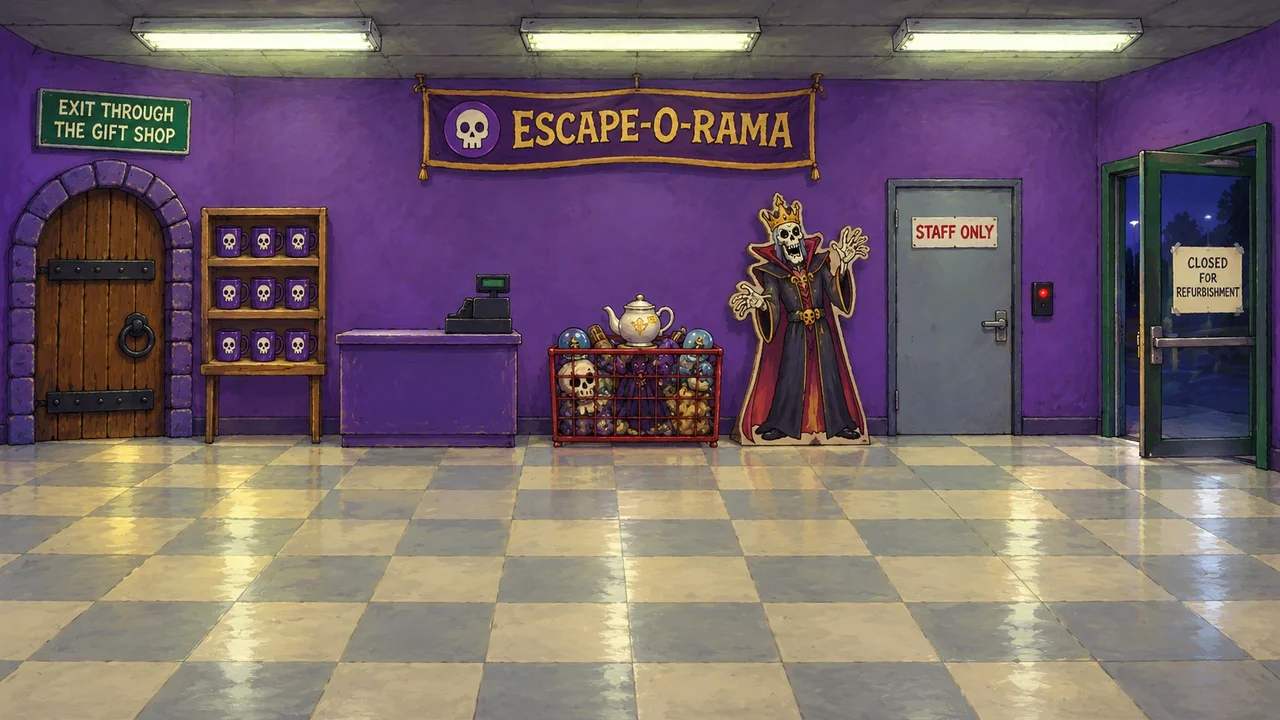
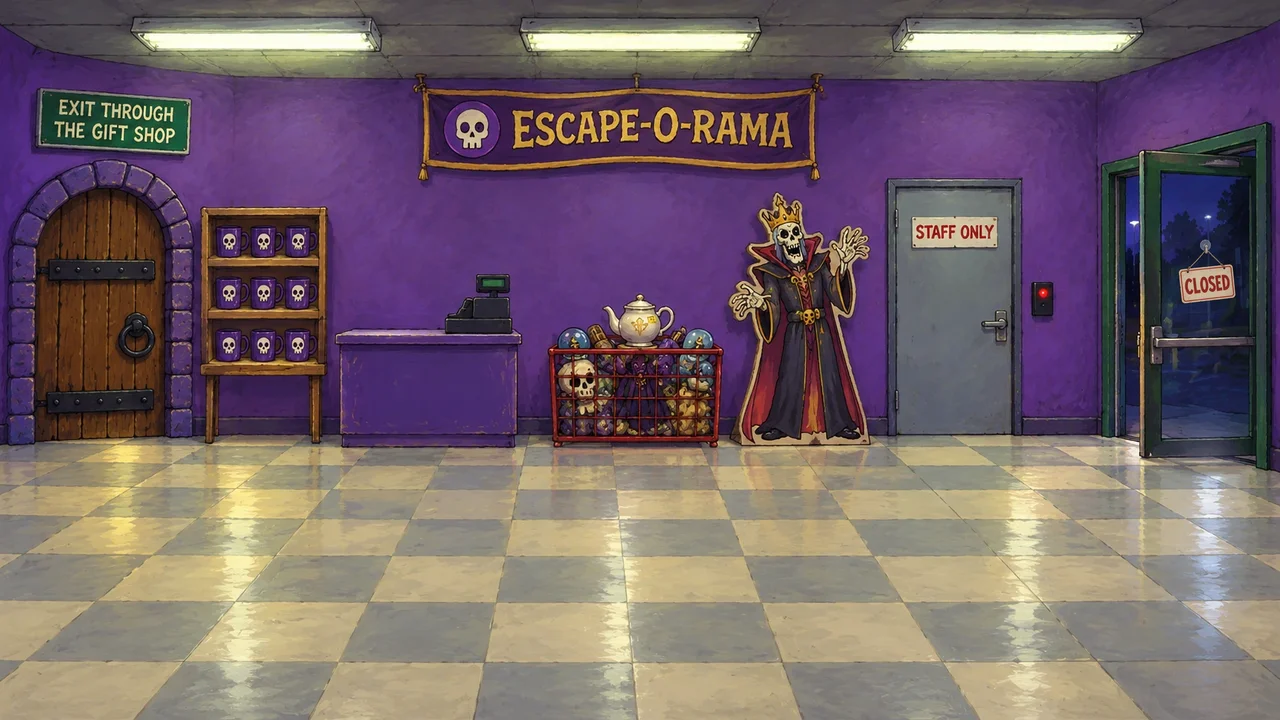
Slice 22: the front door's sign is the shop's OPEN/CLOSED card, staff side out
A CLOSED FOR REFURBISHMENT notice facing into a staffed shop didn't hold up. The hanging sign shows
CLOSED to the people inside, as shop signs do; the door's look and price-gun lines follow it.

Changed region(s): [[0.9062, 0.3361, 0.9688, 0.4583]]

diff --git a/src/content/giftShop.ts b/src/content/giftShop.ts
@@ -211,7 +211,7 @@ export const giftShop: Room = {
       interactionPoint: { x: 1150, y: 490 },
       verbs: {
         // DRAFT:
-        look: says('"CLOSED FOR REFURBISHMENT", taped to a door that is standing wide open. Beyond it: the car park, the night, my bus stop. The refurbishment has been ongoing since 2019.'),
+        look: says("Wide open, with a little sign hanging on the glass that says CLOSED. That's the staff side; out in the car park it says OPEN. Handbook Section 9: never locked during business hours. It isn't. It just won't let me through."),
         use: {
           label: 'Escape!',
           // The false exit: the script only ends once a guest has bought a souvenir (the mug sale).
@@ -231,7 +231,7 @@ export const giftShop: Room = {
       },
       itemUses: {
         // DRAFT:
-        priceGun: [{ effects: [say("I label the front door FREE. It's still closed for refurbishment.")] }],
+        priceGun: [{ effects: [say('I label the front door FREE. The sign still says CLOSED. To me, specifically.')] }],
       },
     },
     reginaldFinaleHotspot,

diff --git a/docs/drafts.md b/docs/drafts.md
@@ -126,11 +126,11 @@ for an item; "Dana (option)" is a line Dana says when the player picks it in a c
 | `giftShop.ts:175` | Dana | I label the door $4.99. Still locked, but now it's affordable. |
 | `giftShop.ts:178` | Dana | The badge reader blinks red. It only wants a proper staff badge, and that wasn't one. |
 | `giftShop.ts:189` | Dana | STAFF ONLY, wide open. Mordecai can't touch anything, so I assume he glared at the lock until it gave up. Beyond it: a corridor that smells of burnt coffee. |
-| `giftShop.ts:214` | Dana | "CLOSED FOR REFURBISHMENT", taped to a door that is standing wide open. Beyond it: the car park, the night, my bus stop. The refurbishment has been ongoing since 2019. |
+| `giftShop.ts:214` | Dana | Wide open, with a little sign hanging on the glass that says CLOSED. That's the staff side; out in the car park it says OPEN. Handbook Section 9: never locked during business hours. It isn't. It just won't let me through. |
 | `giftShop.ts:222` | Dana | EXIT THROUGH THE GIFT SHOP. I haven't bought anything. Not even a mug. |
 | `giftShop.ts:224` | Dana | I step into the doorway. The doorway steps me straight back into the shop. |
 | `giftShop.ts:226` | Dana | The door is open. I'm just not allowed through it. The curse is very literal. |
-| `giftShop.ts:234` | Dana | I label the front door FREE. It's still closed for refurbishment. |
+| `giftShop.ts:234` | Dana | I label the front door FREE. The sign still says CLOSED. To me, specifically. |
 
 ## Kyle (19)
 

diff --git a/docs/slices/22-gift-shop-art.md b/docs/slices/22-gift-shop-art.md
@@ -99,3 +99,8 @@ Shared, append-only: `CREDITS.md` rows, one line each in `src/content/audio.ts`,
   the sting ducking the music (0.70 → 0.17 for its 8 s, then back), the end card, `?art=off`.
 - **Noticed for slice 23:** the Break Room's painted door back to the Gift Shop is brown wood; this
   side of it is grey metal.
+- **After the developer's play-test:** the front door's CLOSED FOR REFURBISHMENT notice didn't hold
+  up (it faced into a shop with a cashier on duty), so it's now the shop's hanging OPEN/CLOSED sign
+  showing the staff side, CLOSED: a ChatGPT edit of an enlarged crop, patched into the background
+  (prompt §3c). The door's look and price-gun lines follow it (Handbook Section 9). Kyle's and
+  Mordecai's "why won't the doors open?" options now say the open door keeps sending Dana back in.
